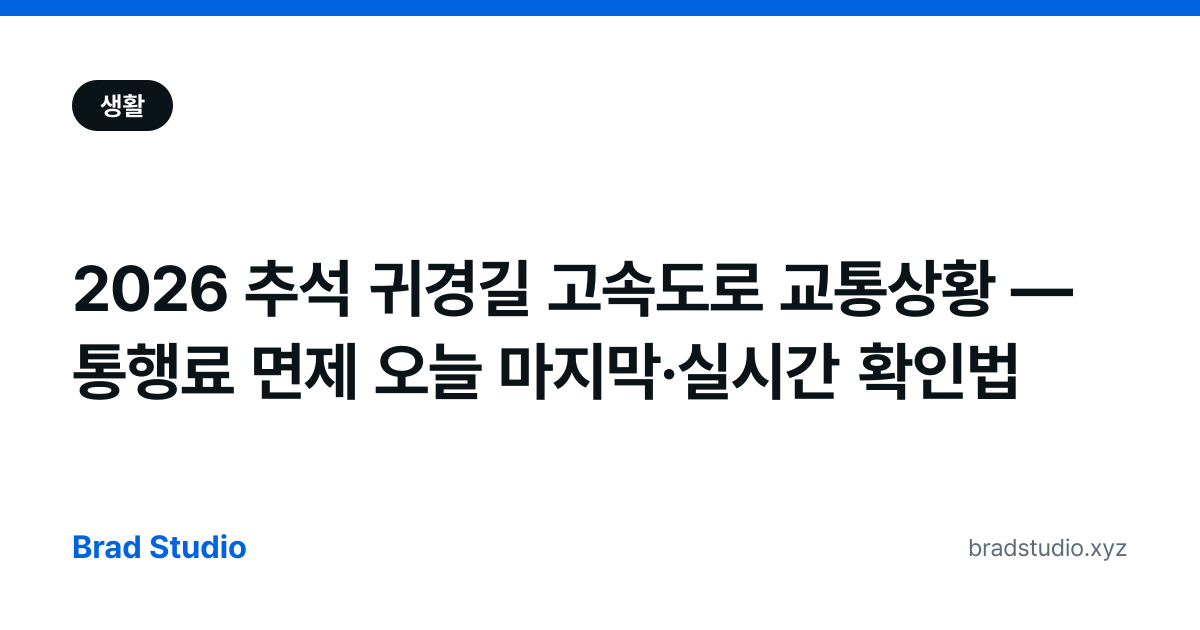
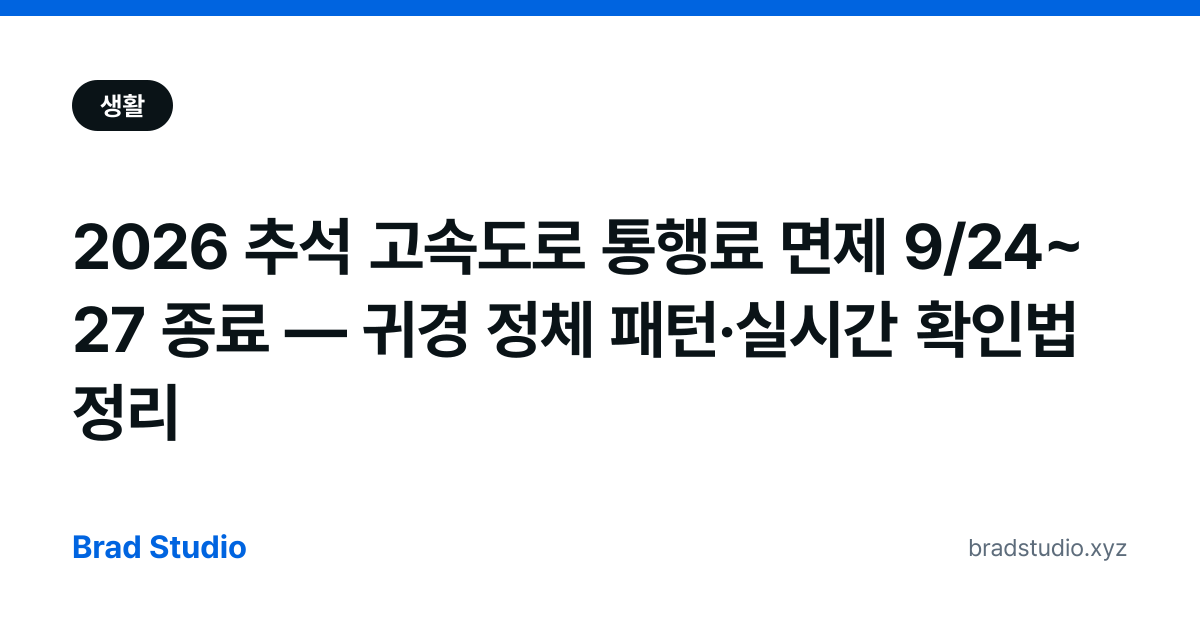
content: 9/30 갱신 — 어르신 독감 일정 앞당김·삼성 배당락 결과·고속도로 글 시제 정리 (bs-20260915-004, bs-20260929-001, bs-20260927-001)
- flu-vaccination-2026: 어르신 시작일 변경 반영 (75세+ 10/12→10/6, 70~74세 10/15→10/12, 65~69세 10/19→10/15), 고위험군 10/6 상담 접종 추가
- samsung-q3-dividend-2026: "배당락 오늘" → 지난 시점으로. 9/28 종가 정정(27만2천원 -4.73%는 장중 수치 → -5.43% 약 27만원 마감), 9/29 27만2,500원(+0.93%) 반등 추가, 수익률 1.69→1.71%
- chuseok-highway-traffic-2026: "통행료 면제 오늘 마지막" → 종료 안내로 교체, 개천절 연휴 면제 없음 안내, 깨진 넷플릭스 내부링크 수정
- OG 3건 재생성

Claude-Session: https://claude.ai/code/session_016W68o6eYMen6oLnjrGLJi9

Changed region(s): [[0.0617, 0.3317, 0.8942, 0.7238]]

diff --git a/src/content/blog/samsung-q3-dividend-2026.md b/src/content/blog/samsung-q3-dividend-2026.md
@@ -1,8 +1,9 @@
 ---
 contentId: "bs-20260929-001"
-title: '삼성전자 배당락 오늘 — 3분기 배당금 4,604원 추산·지급일·4분기 일정 총정리'
-description: '삼성전자 3분기 배당락일은 9월 29일, 배당기준일은 9월 30일입니다. 9월 28일까지 산 주식은 오늘 팔아도 배당을 받습니다. 주당 약 4,604원(유진투자증권 추산), 10월 말 이사회 확정, 11월 지급 예정. 놓쳤다면 4분기 일정을 확인하세요.'
+title: '삼성전자 배당락 지났다 — 29일 0.9% 반등, 3분기 배당금 4,604원 추산·지급일·4분기 일정'
+description: '삼성전자 3분기 배당락일은 9월 29일, 배당기준일은 9월 30일입니다. 9월 28일까지 산 주식은 이후 팔아도 배당을 받습니다. 배당락일 주가는 0.93% 오른 27만2,500원. 주당 약 4,604원(유진투자증권 추산), 10월 말 이사회 확정, 11월 지급 예정. 놓쳤다면 4분기 일정을 확인하세요.'
 pubDate: 2026-09-29
+updatedDate: 2026-09-30
 thumbnail:
   url: 'https://images.unsplash.com/photo-1611974789855-9c2a0a7236a3?crop=entropy&cs=tinysrgb&fit=max&fm=jpg&q=80&w=1080'
   alt: '주식 시세 모니터 화면'
@@ -40,6 +41,9 @@ sources:
   - title: '삼성전자, 3분기 약 30조 현금배당 계획…주당 4604원 추산 — 토요경제'
     url: 'http://sateconomy.co.kr/news/view/1065572029568532'
     accessedAt: 2026-09-29
+  - title: '삼성전자, 배당락에도 반등…27만2500원 마감 — 강원도민일보'
+    url: 'https://www.kado.net/news/articleView.html?idxno=2075395'
+    accessedAt: 2026-09-30
   - title: '삼전 30조원 역대급 배당, 오늘이 막차? — 파이낸셜뉴스'
     url: 'https://www.fnnews.com/news/202609281359504831'
     accessedAt: 2026-09-29
@@ -59,9 +63,9 @@ monetization:
   affiliateDisclosure: false
 
 faq:
-  - question: '9월 28일에 산 삼성전자를 오늘(29일) 팔아도 배당을 받나요?'
+  - question: '9월 28일에 산 삼성전자를 29일 이후 팔아도 배당을 받나요?'
     answer: '받습니다. 9월 28일 체결분은 9월 30일 결제되어 배당기준일 주주명부에 오릅니다. 배당락일인 29일 이후 매도해도 3분기 배당 권리는 유지됩니다.'
-  - question: '오늘(29일) 이후 사면 3분기 배당을 못 받나요?'
+  - question: '29일 이후 사면 3분기 배당을 못 받나요?'
     answer: '못 받습니다. 29일 체결분은 10월 1일 결제되어 9월 30일 주주명부에 들어가지 않습니다. 다음 기회는 4분기(12월 말 기준일) 배당입니다.'
   - question: '배당락일에 주가가 배당금만큼 자동으로 빠지나요?'
     answer: '아닙니다. 한국거래소는 현금배당에 대해 배당락 기준가를 조정하지 않습니다. 배당 권리가 빠진 만큼 매도가 나오며 하락 압력이 생기는 구조일 뿐, 실제 등락은 반도체 업황·금리·외국인 수급이 좌우합니다.'
@@ -74,9 +78,9 @@ seo:
   noindex: false
 ---
 
-## 오늘(9/29) 배당락: 28일까지 샀다면 팔아도 배당은 받는다
+## 배당락 지남: 28일까지 샀다면 팔아도 배당은 받는다
 
-삼성전자 3분기 배당 매수 마감은 **9월 28일(월)**이었습니다. 오늘 9월 29일(화)은 배당락일이고, 배당기준일은 9월 30일(수)입니다. 28일까지 체결한 주식은 오늘 매도해도 배당 권리가 남습니다. 주당 배당금은 **10월 말 이사회**에서 확정됩니다.
+삼성전자 3분기 배당 매수 마감은 **9월 28일(월)**이었습니다. 9월 29일(화)이 배당락일이었고, 배당기준일은 9월 30일(수)입니다. 28일까지 체결한 주식은 29일 이후 매도해도 배당 권리가 남습니다. 주당 배당금은 **10월 말 이사회**에서 확정됩니다.
 
 ---
 
@@ -126,11 +130,13 @@ seo:
 
 ## 배당락 전후 주가
 
-막차일인 9월 28일 삼성전자는 **27만2,000원(-4.73%)**에 마감했습니다. 연휴 동안 미국 국채금리가 급등하며 반도체주 전반이 밀린 탓입니다. 배당을 받으려고 산 개인 투자자 상당수가 배당금보다 큰 평가손을 안고 있습니다.
+막차일인 9월 28일 삼성전자는 **5.43% 급락**해 약 27만원에 마감했습니다. 연휴 동안 미국 국채금리가 급등하며 반도체주 전반이 밀린 탓입니다. 배당을 받으려고 산 개인 투자자 상당수가 배당금보다 큰 평가손을 안고 있습니다.
 
-28일 종가 기준으로 4,604원은 분기 수익률 약 **1.69%**입니다.
+28일 종가(약 27만원) 기준으로 4,604원은 분기 수익률 약 **1.71%**입니다.
 
-한국거래소는 현금배당에 대해 배당락 기준가를 조정하지 않습니다. 오늘 주가가 배당금만큼 자동으로 깎이지 않습니다. 배당 권리가 빠진 뒤 차익 매도가 나오느냐, 반도체 업황과 금리가 어느 쪽으로 움직이느냐가 실제 등락을 정합니다.
+배당락일인 **9월 29일에는 0.93% 오른 27만2,500원**에 마감했습니다. 26만6,000원(-1.48%)에 출발했다가 전날 급락에 따른 저가 매수가 들어오며 오전 한때 27만6,000원까지 올랐습니다.
+
+한국거래소는 현금배당에 대해 배당락 기준가를 조정하지 않습니다. 배당락일 주가가 배당금만큼 자동으로 깎이지 않습니다. 29일 반등이 그 예입니다. 배당 권리가 빠진 뒤 차익 매도가 나오느냐, 반도체 업황과 금리가 어느 쪽으로 움직이느냐가 실제 등락을 정합니다.
 
 금리 변수가 궁금하다면 [9월 FOMC 결과 — 3년 2개월 만에 0.25%p 인상, 내 대출·예금 변화](/blog/september-fomc-2026/)를 참고하세요.
 
@@ -150,7 +156,7 @@ seo:
 
 ## 체크리스트
 
-- 28일까지 샀다 → 오늘 팔아도 배당 수령, 11월 입금 기다리기
-- 오늘 이후 샀다 → 3분기 배당 없음, 4분기 기준일 12월 31일 확인
+- 28일까지 샀다 → 이후 팔아도 배당 수령, 11월 입금 기다리기
+- 29일 이후 샀다 → 3분기 배당 없음, 4분기 기준일 12월 31일 확인
 - 5,000주 이상 → 금융소득 2,000만원 초과 여부 계산해 두기
 - 10월 말 이사회 공시 → [dividend.samsung.com](https://dividend.samsung.com/landing)에서 확정 금액 조회

diff --git a/src/content/blog/flu-vaccination-2026.md b/src/content/blog/flu-vaccination-2026.md
@@ -1,8 +1,9 @@
 ---
 contentId: "bs-20260915-004"
-title: '독감 예방접종 2026 — 9월 21일 시작·무료 대상 14세 확대'
-description: '2026-2027절기 독감 국가예방접종은 9월 21일부터 시작합니다. 어린이 무료 대상이 14세(2012년생)까지 확대됐습니다. 대상별 시작일, 무료 확인 방법, 유료 가격, 접종 주의사항까지 9월 15일 기준으로 정리했습니다.'
+title: '독감 예방접종 2026 — 어르신 무료접종 10월 6일로 앞당겨, 75세·70세·65세 시작일표'
+description: '2026-2027절기 어르신 독감 무료접종 시작일이 앞당겨졌습니다. 75세 이상 10월 6일, 70~74세 10월 12일, 65~69세 10월 15일. 어린이 무료 대상은 14세(2012년생)까지 확대. 대상별 시작일, 무료 확인, 지정병원 찾기를 9월 30일 기준으로 정리했습니다.'
 pubDate: 2026-09-15
+updatedDate: 2026-09-30
 thumbnail:
   url: 'https://images.unsplash.com/photo-1612277795421-9bc7706a4a34?crop=entropy&cs=tinysrgb&fit=max&fm=jpg&q=80&w=1080'
   alt: '독감 예방접종 후 밴드를 붙이는 모습'
@@ -35,6 +36,9 @@ reviewAfter: 2026-10-20
 author: 'Brad Studio'
 
 sources:
+  - title: '2026 독감 무료접종 대상 및 일정: 어린이·임신부·어르신 — 위기브'
+    url: 'https://www.wegive.co.kr/wezine/detail/2164'
+    accessedAt: 2026-09-30
   - title: '2026-2027절기 독감 무료접종 14세까지 확대 — 경향신문'
     url: 'https://www.khan.co.kr/article/202608251325001'
     accessedAt: 2026-09-15
@@ -57,7 +61,7 @@ monetization:
 
 faq:
   - question: '2026-2027절기 독감 예방접종은 언제 시작하나요?'
-    answer: '9월 21일(월)부터 순차적으로 시작합니다. 2회 접종 대상 어린이와 임신부가 9월 21일로 가장 빠릅니다. 65세 이상 어르신은 10월 12일(75세 이상)부터 단계적으로 시작합니다.'
+    answer: '9월 21일(월)부터 순차적으로 시작합니다. 2회 접종 대상 어린이와 임신부가 9월 21일로 가장 빠릅니다. 65세 이상 어르신은 10월 6일(75세 이상)부터 단계적으로 시작합니다. 유행이 일찍 시작돼 당초 10월 12일에서 앞당겨졌습니다.'
   - question: '2026년 독감 무료 접종 대상 나이가 어떻게 되나요?'
     answer: '생후 6개월부터 14세까지(2012년 1월 1일 ~ 2026년 8월 31일 출생)입니다. 기존 13세에서 14세로 확대됐습니다. 65세 이상 어르신과 임신부도 무료 대상입니다.'
   - question: '독감과 코로나19 백신을 같은 날 맞아도 되나요?'
@@ -71,22 +75,23 @@ seo:
   noindex: false
 ---
 
-독감 예방접종 시기를 검색하고 있다면 핵심 답변부터 드립니다. **2026-2027절기 인플루엔자 국가예방접종은 9월 21일(월)부터 시작**됩니다. 올해 어린이 무료 접종 대상이 기존 13세에서 **14세(2012년생)까지** 확대됐습니다. 65세 이상 어르신은 10월 12일(75세 이상)부터 순차 시작합니다.
+독감 예방접종 시기를 검색하고 있다면 핵심 답변부터 드립니다. **2026-2027절기 인플루엔자 국가예방접종은 9월 21일(월)부터 시작**됩니다. 올해 어린이 무료 접종 대상이 기존 13세에서 **14세(2012년생)까지** 확대됐습니다. 65세 이상 어르신은 **10월 6일(75세 이상)**부터 순차 시작합니다. 올해 유행이 일찍 시작돼 어르신 일정이 당초보다 6일 앞당겨졌습니다.
 
 ---
 
 ## 대상별 접종 시작일
 
-9월 15일 기준, 질병관리청이 발표한 2026-2027절기 대상별 시작일입니다.
+9월 30일 기준, 질병관리청이 조정한 2026-2027절기 대상별 시작일입니다. 어르신 일정은 9월 15일 발표 때보다 앞당겨졌습니다.
 
 | 대상 | 시작일 |
 |---|---|
 | 2회 접종 대상 어린이 (생후 6개월~만 9세 미만, 첫 접종) | 9월 21일(월) |
 | 임신부 | 9월 21일(월) |
 | 1회 접종 대상 어린이 (만 9세 이상~14세) | 9월 28일(월) |
-| 75세 이상 어르신 | 10월 12일(월) |
-| 70~74세 어르신 | 10월 15일(목) |
-| 65~69세 어르신 | 10월 19일(월) |
+| 75세 이상 어르신 (1951년 이전 출생) | **10월 6일(화)** ~~10월 12일~~ |
+| 70~74세 어르신 (1952~1956년생) | **10월 12일(월)** ~~10월 15일~~ |
+| 65~69세 어르신 (1957~1961년생) | **10월 15일(목)** ~~10월 19일~~ |
+| 면역저하자 등 고위험군 | 10월 6일부터 의료진 상담 후 |
 
 접종 기간은 2026년 9월 21일부터 2027년 4월 30일까지입니다.
 

diff --git a/src/content/blog/chuseok-highway-traffic-2026.md b/src/content/blog/chuseok-highway-traffic-2026.md
@@ -1,9 +1,9 @@
 ---
 contentId: "bs-20260927-001"
-title: '2026 추석 귀경길 고속도로 교통상황 — 통행료 면제 오늘 마지막·실시간 확인법'
-description: '2026년 추석 연휴 마지막 날(9월 27일) 귀경 차량이 절정에 달한다. 고속도로 통행료 면제는 오늘까지. 실시간 교통 확인법, 출발 시간대 팁, 휴게소 안전까지 정리했다.'
+title: '2026 추석 고속도로 통행료 면제 9/24~27 종료 — 귀경 정체 패턴·실시간 확인법 정리'
+description: '2026년 추석 고속도로 통행료 면제(9월 24~27일)는 종료됐다. 연휴 마지막 날 귀경 정체 패턴, 실시간 교통 확인법, 출발 시간대 팁을 정리했다. 10월 3~5일 개천절 연휴 이동에도 그대로 쓸 수 있다.'
 pubDate: 2026-09-27
-updatedDate: 2026-09-27
+updatedDate: 2026-09-30
 thumbnail:
   url: 'https://images.unsplash.com/photo-1740706682431-2bc106741d63?crop=entropy&cs=tinysrgb&fit=max&fm=jpg&q=80&w=1080'
   alt: '차량이 가득 찬 고속도로 정체 모습'
@@ -61,13 +61,15 @@ faq:
     answer: '로드플러스(roadplus.co.kr), 티맵, 카카오내비 세 가지가 대표적이다. 로드플러스는 한국도로공사 공식 데이터 기반으로 고속도로 구간별 소요 시간을 가장 정확히 제공한다.'
 ---
 
-추석 연휴 마지막 날인 오늘(9월 27일), 전국 고속도로는 귀경 차량으로 인해 하루 종일 혼잡이 이어질 전망이다. 연휴 기간(9월 24~27일) 적용된 **고속도로 통행료 면제도 오늘 자정으로 종료**된다. 지금 출발을 앞두고 있다면 이 글을 읽고 출발 시간과 경로를 점검해 보자.
+> **9월 30일 업데이트**: 추석 통행료 면제(9월 24~27일)는 종료됐습니다. 아래 본문은 연휴 마지막 날(9월 27일) 기준으로 작성했습니다. 10월 3~5일 개천절 연휴에는 통행료 면제가 없습니다. 연휴 날짜는 [개천절 대체공휴일 달력](/blog/national-foundation-day-substitute-holiday-2026/)에서 확인하세요.
+
+추석 연휴 마지막 날인 9월 27일, 전국 고속도로는 귀경 차량으로 하루 종일 붐볐다. 연휴 기간(9월 24~27일) 적용된 **고속도로 통행료 면제는 27일 자정으로 종료**됐다. 다음 연휴 이동 때 출발 시간과 경로를 짤 때 참고하자.
 
 ---
 
-## 2026 추석 고속도로 통행료 면제 — 오늘이 마지막
+## 2026 추석 고속도로 통행료 면제 — 9월 27일 종료
 
-한국도로공사는 2026년 추석 연휴인 9월 24일(목)부터 9월 27일(일)까지 나흘간 전국 고속도로 통행료를 전면 면제했다. 오늘 9월 27일이 마지막 날이므로 **오늘 자정(24시)까지 출구 요금소를 통과**해야 면제 혜택을 받을 수 있다.
+한국도로공사는 2026년 추석 연휴인 9월 24일(목)부터 9월 27일(일)까지 나흘간 전국 고속도로 통행료를 전면 면제했다. 9월 27일 자정(24시)까지 출구 요금소를 통과한 차량이 면제 대상이었다.
 
 ### 하이패스 · 일반 차로 이용 방법
 
@@ -149,6 +151,6 @@ faq:
 
 ## 연휴 마무리는 집에서 편하게
 
-오늘 귀경하는 길이 조금 늦어지더라도 조급해할 필요 없다. 내일(9월 28일)부터 출근이라면 오늘 밤 안에만 도착하면 된다. 정체가 심하다면 저녁 식사를 휴게소에서 해결하고 차 안에서 넷플릭스 추석 특선 콘텐츠를 즐기며 기다리는 것도 방법이다. 추석 연휴 넷플릭스 추천작이 궁금하다면 [2026 추석 넷플릭스 일정표](/blog/chuseok-netflix-2026) 글을 참고해 보자.
+오늘 귀경하는 길이 조금 늦어지더라도 조급해할 필요 없다. 내일(9월 28일)부터 출근이라면 오늘 밤 안에만 도착하면 된다. 정체가 심하다면 저녁 식사를 휴게소에서 해결하고 차 안에서 넷플릭스 추석 특선 콘텐츠를 즐기며 기다리는 것도 방법이다. 추석 연휴 넷플릭스 추천작이 궁금하다면 [2026 추석 넷플릭스 일정표](/blog/chuseok-netflix-lineup-2026/) 글을 참고해 보자.
 
 안전 귀경하세요.
